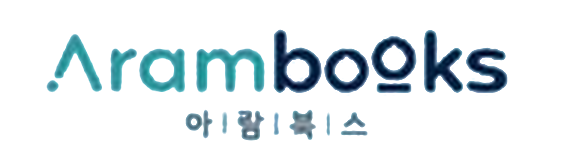
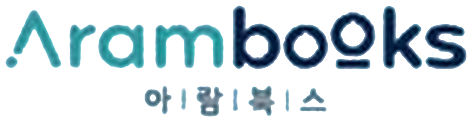
출판사 카드를 책장 디자인(B)으로 바꾸고 로고 크기를 눈으로 비슷하게 맞춤
Claude-Session: https://claude.ai/code/session_01Ui38LubLZt8h9ZsR3sYbkB

diff --git a/css/style.css b/css/style.css
@@ -143,13 +143,18 @@ footer .muted{opacity:.75}
 /* ===== 출판사 카드 (가로 넘기기) ===== */
 .pub-rail-wrap{position:relative}
 .pub-rail{display:grid;grid-auto-flow:column;grid-auto-columns:minmax(220px,calc((100% - 54px)/4));gap:18px;overflow-x:auto;scroll-snap-type:x mandatory;padding-block:4px 14px;scrollbar-width:thin;-webkit-overflow-scrolling:touch}
-.pub-card{scroll-snap-align:start;display:flex;flex-direction:column;justify-content:space-between;gap:16px;min-height:340px;padding:24px 22px;border-radius:var(--r);text-decoration:none;color:var(--on-accent);background:var(--pc);position:relative;overflow:hidden;transition:transform .15s}
-.pub-card:hover{transform:translateY(-4px)}
-.pub-card::after{content:"";position:absolute;right:-40px;bottom:-40px;width:160px;height:160px;border-radius:50%;background:rgba(255,255,255,.18)}
-.pub-card .pc-badge{align-self:flex-start;font-size:13px;padding:2px 10px;border-radius:999px;background:rgba(255,255,255,.75);color:#17324D}
-.pub-card h3{font-size:30px;color:#fff;text-shadow:0 1px 0 rgba(0,0,0,.08)}
-.pub-card p{color:#fff;opacity:.95;font-size:15px}
-.pub-card .pc-go{font-family:var(--f-display);font-size:17px;color:#fff;position:relative;z-index:1}
+.pub-card{scroll-snap-align:start;display:grid;grid-template-columns:30px 1fr;min-height:340px;background:var(--paper);border-radius:6px 18px 18px 6px;text-decoration:none;color:var(--ink);box-shadow:4px 6px 0 color-mix(in srgb,var(--pc) 35%,transparent);transition:transform .15s,box-shadow .15s;margin-right:6px}
+.pub-card:hover{transform:translateY(-4px);box-shadow:4px 10px 0 color-mix(in srgb,var(--pc) 45%,transparent)}
+.pub-card .spine{background:var(--pc);border-radius:6px 0 0 6px;position:relative}
+.pub-card .spine::before,.pub-card .spine::after{content:"";position:absolute;left:0;right:0;height:3px;background:rgba(255,255,255,.55)}
+.pub-card .spine::before{top:22px}.pub-card .spine::after{bottom:22px}
+.pub-card .in{padding:22px 20px;display:flex;flex-direction:column;gap:10px;min-width:0}
+.pub-card .pc-logo{height:96px;display:flex;align-items:center;justify-content:center}
+.pub-card .pc-logo img{max-height:100%;max-width:100%;object-fit:contain;display:block}
+.pub-card .pc-badge{align-self:flex-start;font-size:13px;padding:2px 10px;border-radius:999px;background:color-mix(in srgb,var(--pc) 16%,transparent);color:var(--ink)}
+.pub-card h3{font-size:23px;border-top:2px solid var(--pc);padding-top:12px}
+.pub-card p{color:var(--ink-soft);font-size:15px}
+.pub-card .pc-go{margin-top:auto;font-family:var(--f-display);color:var(--ink)}
 .rail-btn{position:absolute;top:50%;transform:translateY(-50%);width:44px;height:44px;border-radius:50%;border:2px solid var(--ink);background:var(--paper);color:var(--ink);font-size:20px;cursor:pointer;display:grid;place-items:center;z-index:2}
 .rail-btn.prev{left:-14px}.rail-btn.next{right:-14px}
 .rail-hint{font-size:14px;color:var(--ink-soft);margin-top:4px}
@@ -195,8 +200,7 @@ footer .muted{opacity:.75}
 .pub-rail-wrap.fits .rail-btn{display:none}
 .rail-btn.prev{left:-22px}.rail-btn.next{right:-22px}
 .book-detail .cover.cover-ph{display:grid}
-.pub-card .pc-logo{display:flex;align-items:center;justify-content:center;background:#fff;border-radius:14px;height:96px;padding:10px 14px;position:relative;z-index:1}
-.pub-card .pc-logo img{max-height:100%;max-width:100%;object-fit:contain;display:block}
-.pub-card .pc-badge{position:relative;z-index:1}
-.pub-logo{display:flex;align-items:center;justify-content:center;background:#fff;border-radius:14px;height:64px;padding:8px 12px;border:3px solid var(--pc)}
+.pub-logo{display:flex;align-items:center;justify-content:center;background:#fff;border-radius:4px 12px 12px 4px;height:64px;padding:8px 14px 8px 22px;border-left:12px solid var(--pc);box-shadow:3px 4px 0 color-mix(in srgb,var(--pc) 35%,transparent)}
 .pub-logo img{max-height:100%;max-width:160px;object-fit:contain;display:block}
+.pub-card .pc-logo img{max-height:none;height:auto;max-width:100%}
+.pub-logo img{max-height:none;height:auto;max-width:100%}

diff --git a/data/books.js b/data/books.js
@@ -1,10 +1,11 @@
-/* 출판사·책 목록 데이터. 책을 추가하거나 고칠 때는 이 파일만 바꾸면 됩니다.
+/* 출판사·책 목록 데이터.
+   logoW: 로고 표시 너비(px). 굵은 로고는 작게 해서 눈으로 볼 때 크기를 맞춤. 책을 추가하거나 고칠 때는 이 파일만 바꾸면 됩니다.
    image: images/books/ 아래 파일 경로 (없으면 색 표지로 대신 보여줌) */
 window.BOOKSHOP = {
   temporary: true, // 사장님 목록을 받으면 false로 바꾸기
   publishers: [
     {
-      id: "greatbooks", logo: "images/publishers/greatbooks.png", name: "그레이트북스", color: "#E5484D", badge: "우수 매장",
+      id: "greatbooks", logo: "images/publishers/greatbooks.png", logoW: 96, name: "그레이트북스", color: "#E5484D", badge: "우수 매장",
       intro: "영아부터 초등까지 단계별 전집. 책바다는 그레이트북스 우수 매장이에요.",
       books: [
         { id: "bebe-mama", title: "베베랑마마랑", age: "0~3세", summary: "아기와 엄마가 함께 보는 첫 책",
@@ -16,7 +17,7 @@ window.BOOKSHOP = {
       ]
     },
     {
-      id: "arambooks", logo: "images/publishers/arambooks.png", name: "아람북스", color: "#2FA8C9", badge: "정품 등록",
+      id: "arambooks", logo: "images/publishers/arambooks.png", logoW: 170, name: "아람북스", color: "#2FA8C9", badge: "정품 등록",
       intro: "자연·수학·생활 동화까지 다양한 아람북스 전집을 매장에서 볼 수 있어요.",
       books: [
         { id: "jayeoniol", title: "자연이올", age: "유아", summary: "보드북 10권 + 양장 40권",
@@ -31,7 +32,7 @@ window.BOOKSHOP = {
       ]
     },
     {
-      id: "froebel", logo: "images/publishers/froebel.png", name: "프뢰벨", color: "#E8A317", badge: "정품 등록",
+      id: "froebel", logo: "images/publishers/froebel.png", logoW: 116, name: "프뢰벨", color: "#E8A317", badge: "정품 등록",
       intro: "어린이를 위한 바른 교육, 프뢰벨 전집과 놀이 교구.",
       books: [
         { id: "speaking", title: "말하기 프로그램", age: "유아", summary: "아이 성장 테마 동화 + 양면 놀이책" },
@@ -40,7 +41,7 @@ window.BOOKSHOP = {
       ]
     },
     {
-      id: "sungwoo", logo: "images/publishers/sungwoo.png", name: "도서출판 성우", color: "#7C5CC4", badge: "정품 등록",
+      id: "sungwoo", logo: "images/publishers/sungwoo.png", logoW: 150, name: "도서출판 성우", color: "#7C5CC4", badge: "정품 등록",
       intro: "생각하는 힘을 키우는 성우 전집. 묶음 구매 시 소전집을 함께 드려요.",
       books: [
         { id: "kkoma", title: "꼬마 생각 뒤집기", age: "5세 이상", summary: "전 40권 · 애니메이션 40편 · 세이펜",

diff --git a/js/site.js b/js/site.js
@@ -18,10 +18,11 @@
   if (rail) {
     rail.innerHTML = D.publishers.map(function (p) {
       return '<a class="pub-card" style="--pc:' + p.color + '" href="publisher.html?p=' + p.id + '">' +
-        (p.logo ? '<span class="pc-logo"><img src="' + esc(p.logo) + '" alt="' + esc(p.name) + ' 로고"></span>' : '') +
+        '<span class="spine" aria-hidden="true"></span><span class="in">' +
+        (p.logo ? '<span class="pc-logo"><img src="' + esc(p.logo) + '" alt="' + esc(p.name) + ' 로고" style="width:' + (p.logoW || 140) + 'px"></span>' : '') +
         '<span class="pc-badge">' + esc(p.badge) + '</span>' +
-        '<div><h3>' + esc(p.name) + '</h3><p>' + esc(p.intro) + '</p></div>' +
-        '<span class="pc-go">책 ' + p.books.length + '종 보기 →</span></a>';
+        '<h3>' + esc(p.name) + '</h3><p>' + esc(p.intro) + '</p>' +
+        '<span class="pc-go">책 ' + p.books.length + '종 보기 →</span></span></a>';
     }).join("");
     var wrap = rail.parentNode;
     var fit = function () { wrap.classList.toggle("fits", rail.scrollWidth <= rail.clientWidth + 2); };
@@ -39,7 +40,7 @@
     pubRoot.innerHTML =
       '<div class="page-head"><div class="wrap">' +
       '<div class="crumb"><a href="index.html#books">출판사별 책 소개</a><span>›</span><span>' + esc(p.name) + '</span></div>' +
-      '<div class="page-title">' + (p.logo ? '<span class="pub-logo"><img src="' + esc(p.logo) + '" alt=""></span>' : '<span class="dot"></span>') + '<h1>' + esc(p.name) + '</h1></div>' +
+      '<div class="page-title">' + (p.logo ? '<span class="pub-logo"><img src="' + esc(p.logo) + '" alt="" style="width:' + Math.round((p.logoW || 140) * 0.75) + 'px"></span>' : '<span class="dot"></span>') + '<h1>' + esc(p.name) + '</h1></div>' +
       '<p class="page-lead">' + esc(p.intro) + '</p>' +
       (D.temporary ? '<p class="temp-note">책 목록은 준비 중이에요. 곧 전체 목록으로 바뀌어요.</p>' : '') +
       '</div></div>' +

diff --git a/book.html b/book.html
@@ -7,9 +7,9 @@
 <link rel="icon" href="images/logo.jpg">
 <link rel="preconnect" href="https://fonts.googleapis.com">
 <link rel="stylesheet" href="https://fonts.googleapis.com/css2?family=Jua&family=Gowun+Dodum&display=swap">
-<link rel="stylesheet" href="css/style.css?v=202610221244">
-<script src="data/books.js?v=202610221244" defer></script>
-<script src="js/site.js?v=202610221244" defer></script>
+<link rel="stylesheet" href="css/style.css?v=202610221250">
+<script src="data/books.js?v=202610221250" defer></script>
+<script src="js/site.js?v=202610221250" defer></script>
 </head>
 <body>
 <header>

diff --git a/index.html b/index.html
@@ -9,9 +9,9 @@
 <link rel="icon" href="images/logo.jpg">
 <link rel="preconnect" href="https://fonts.googleapis.com">
 <link rel="stylesheet" href="https://fonts.googleapis.com/css2?family=Jua&family=Gowun+Dodum&display=swap">
-<link rel="stylesheet" href="css/style.css?v=202610221244">
-<script src="data/books.js?v=202610221244" defer></script>
-<script src="js/site.js?v=202610221244" defer></script>
+<link rel="stylesheet" href="css/style.css?v=202610221250">
+<script src="data/books.js?v=202610221250" defer></script>
+<script src="js/site.js?v=202610221250" defer></script>
 </head>
 <body>
 <header>

diff --git a/publisher.html b/publisher.html
@@ -7,9 +7,9 @@
 <link rel="icon" href="images/logo.jpg">
 <link rel="preconnect" href="https://fonts.googleapis.com">
 <link rel="stylesheet" href="https://fonts.googleapis.com/css2?family=Jua&family=Gowun+Dodum&display=swap">
-<link rel="stylesheet" href="css/style.css?v=202610221244">
-<script src="data/books.js?v=202610221244" defer></script>
-<script src="js/site.js?v=202610221244" defer></script>
+<link rel="stylesheet" href="css/style.css?v=202610221250">
+<script src="data/books.js?v=202610221250" defer></script>
+<script src="js/site.js?v=202610221250" defer></script>
 </head>
 <body>
 <header>
